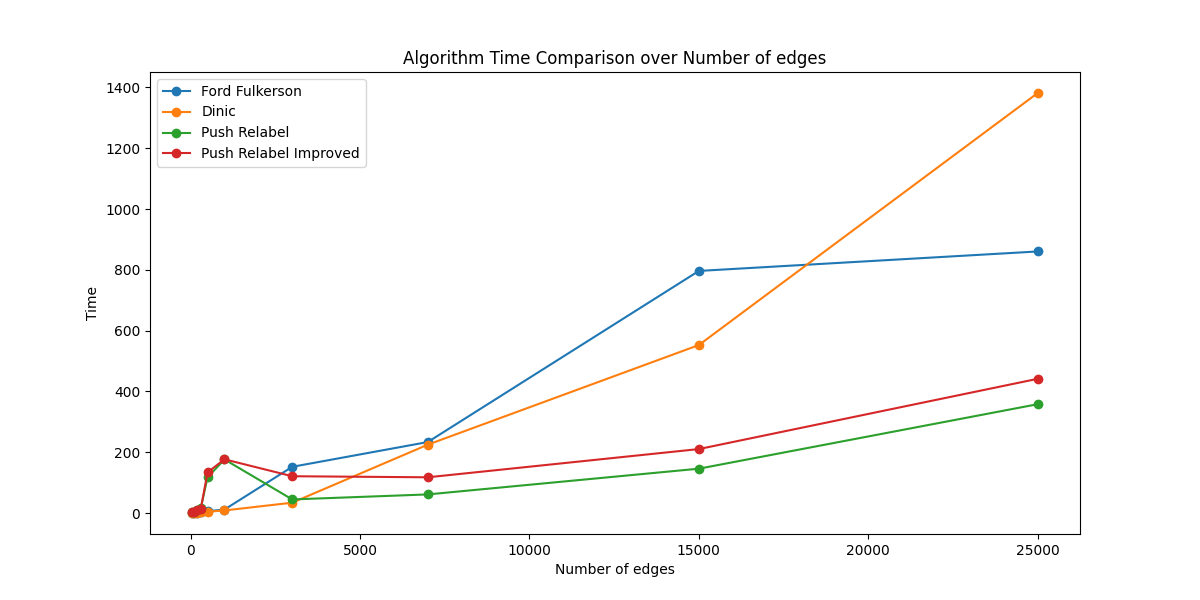
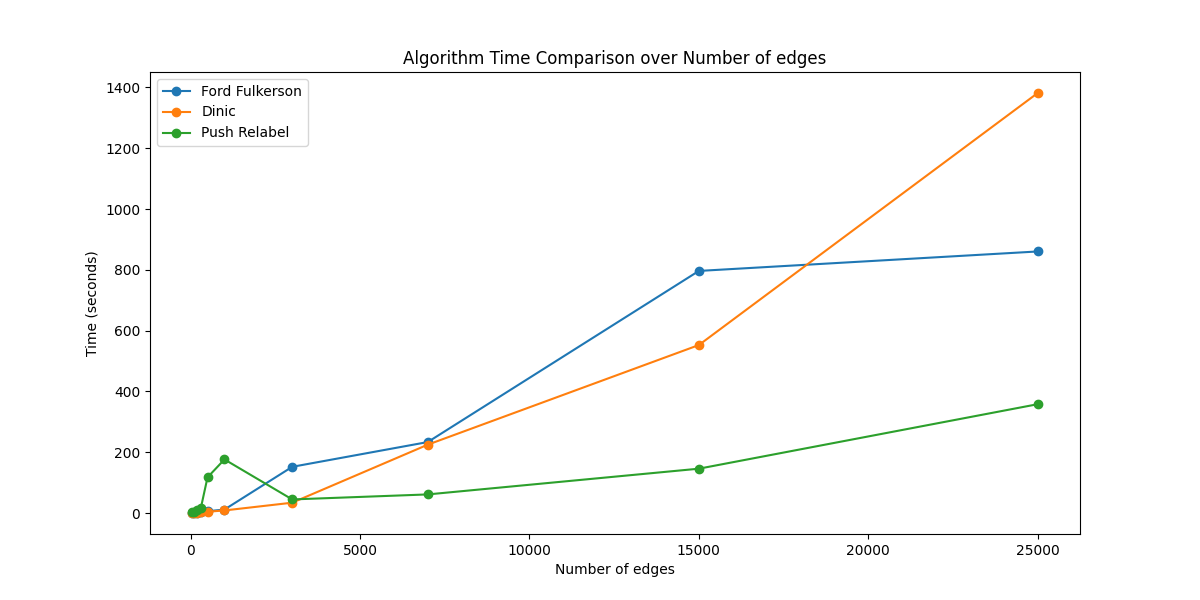
Change everything

diff --git a/plotter.py b/plotter.py
@@ -20,10 +20,10 @@ def draw_chart_level(df: pd.DataFrame):
     plt.plot(df['level'], df['ford_fulkerson_time'], marker='o', label='Ford Fulkerson')
     plt.plot(df['level'], df['dinic_time'], marker='o', label='Dinic')
     plt.plot(df['level'], df['push_relabel_time'], marker='o', label='Push Relabel')
-    plt.plot(df['level'], df['push_relabel_improved_time'], marker='o', label='Push Relabel Improved')
+    # plt.plot(df['level'], df['push_relabel_improved_time'], marker='o', label='Push Relabel Improved')
 
     plt.xlabel('Level of Testcase')
-    plt.ylabel('Time')
+    plt.ylabel('Time (seconds)')
     plt.title('Algorithm Time Comparison over Level of Testcase')
     plt.legend()
 
@@ -36,10 +36,10 @@ def draw_chart_node(df: pd.DataFrame):
     plt.plot(df['num_nodes'], df['ford_fulkerson_time'], marker='o', label='Ford Fulkerson')
     plt.plot(df['num_nodes'], df['dinic_time'], marker='o', label='Dinic')
     plt.plot(df['num_nodes'], df['push_relabel_time'], marker='o', label='Push Relabel')
-    plt.plot(df['num_nodes'], df['push_relabel_improved_time'], marker='o', label='Push Relabel Improved')
+    # plt.plot(df['num_nodes'], df['push_relabel_improved_time'], marker='o', label='Push Relabel Improved')
 
     plt.xlabel('Number of nodes')
-    plt.ylabel('Time')
+    plt.ylabel('Time (seconds)')
     plt.title('Algorithm Time Comparison over Number of nodes')
     plt.legend()
 
@@ -52,10 +52,10 @@ def draw_chart_edge(df: pd.DataFrame):
     plt.plot(df['num_edges'], df['ford_fulkerson_time'], marker='o', label='Ford Fulkerson')
     plt.plot(df['num_edges'], df['dinic_time'], marker='o', label='Dinic')
     plt.plot(df['num_edges'], df['push_relabel_time'], marker='o', label='Push Relabel')
-    plt.plot(df['num_edges'], df['push_relabel_improved_time'], marker='o', label='Push Relabel Improved')
+    # plt.plot(df['num_edges'], df['push_relabel_improved_time'], marker='o', label='Push Relabel Improved')
 
     plt.xlabel('Number of edges')
-    plt.ylabel('Time')
+    plt.ylabel('Time (seconds)')
     plt.title('Algorithm Time Comparison over Number of edges')
     plt.legend()
 
@@ -65,7 +65,10 @@ def draw_chart_edge(df: pd.DataFrame):
 # Load data
 # df = pd.read_csv("./benchmark_phuong_20level.csv")
 df = pd.read_csv("./benchmark_dung_20level.csv")
-# benchmark_phuong_20level
+# benchmark_phuong_20level = chưa
+# benchmark_dung_20level = khá ổn định
+# benchmark_Thuong = chưa
+
 
 # Pre-process
 df_cleaned = df.drop(['testcase', 'num_nodes', 'num_edges'], axis=1)

diff --git a/dataset_generator.py b/dataset_generator.py
@@ -69,8 +69,8 @@ def gen_edges(num_nodes: int, num_edges: int) -> list[tuple[int,int]]:
     Return:
         choosen_permutation (list[tuple[int,int]]): list random number of edges. Eg: [(1,2), (3,4)]
     """
-    lower_edges = num_edges-1
-    upper_edges = (num_edges*(num_edges-1))/2
+    lower_edges = num_nodes-1
+    upper_edges = (num_nodes*(num_nodes-1))/2
     if num_edges < lower_edges or num_edges > upper_edges:
         raise ValueError("Number of edges must be in range [lower, upper]")
 
